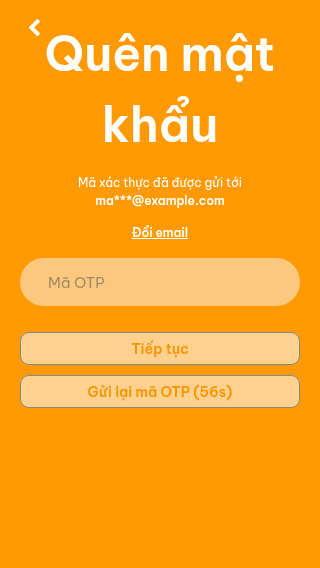
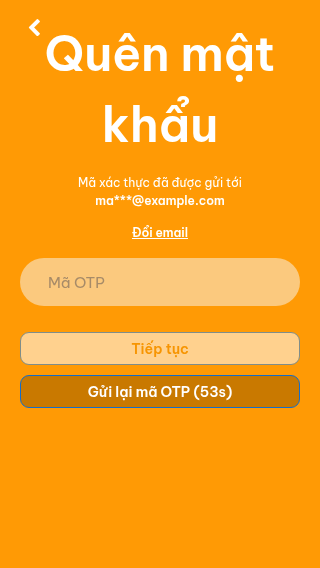
feat: brand SmartTro and correct recovery OTP resend button

Changed region(s): [[0.0625, 0.6585, 0.9375, 0.7183]]

diff --git a/src/screens/__tests__/ForgotPasswordScreen.test.tsx b/src/screens/__tests__/ForgotPasswordScreen.test.tsx
@@ -1,5 +1,5 @@
 import React from "react";
-import { BackHandler, Pressable, Text, TextInput } from "react-native";
+import { BackHandler, Pressable, StyleSheet, Text, TextInput } from "react-native";
 import TestRenderer, { act, type ReactTestInstance } from "react-test-renderer";
 
 import type { AuthGateway } from "../../auth/gateway";
@@ -39,6 +39,10 @@ function button(root: ReactTestInstance, label: string): ReactTestInstance {
   return root.findAllByType(Pressable).find((pressable) => textOf(pressable) === label) as ReactTestInstance;
 }
 
+function resendButton(root: ReactTestInstance): ReactTestInstance {
+  return root.findAllByType(Pressable).find((pressable) => textOf(pressable).startsWith("Gửi lại mã OTP")) as ReactTestInstance;
+}
+
 describe("ForgotPasswordScreen email change", () => {
   beforeEach(() => {
     jest.useFakeTimers();
@@ -60,6 +64,25 @@ describe("ForgotPasswordScreen email change", () => {
     expect(labels).toEqual(expect.arrayContaining(["Mã xác thực đã được gửi tới", "ma***@example.com", "Đổi email"]));
     expect(labels.indexOf("Mã xác thực đã được gửi tới")).toBeLessThan(labels.indexOf("Tiếp tục"));
     expect(labels.indexOf("Tiếp tục")).toBeLessThan(labels.findIndex((label) => typeof label === "string" && label.startsWith("Gửi lại mã OTP")));
+    act(() => renderer.unmount());
+  });
+
+  it("uses a readable inverse resend button in both cooldown and enabled states", () => {
+    let renderer!: TestRenderer.ReactTestRenderer;
+    act(() => {
+      renderer = TestRenderer.create(<ForgotPasswordScreen gateway={gateway()} initialStep="otp" onComplete={jest.fn()} onExit={jest.fn()} />);
+    });
+
+    const coolingDown = resendButton(renderer.root);
+    expect(coolingDown.props.disabled).toBe(true);
+    expect(StyleSheet.flatten(coolingDown.props.style)).toMatchObject({ backgroundColor: "#C97900", borderColor: "#126DCC", borderWidth: 1.5, borderRadius: 9, height: 33 });
+    expect(StyleSheet.flatten(coolingDown.findByType(Text).props.style)).toMatchObject({ color: "#FFFFFF", fontFamily: "BeVietnamPro_600SemiBold" });
+
+    act(() => { jest.advanceTimersByTime(60_000); });
+    const enabled = resendButton(renderer.root);
+    expect(enabled.props.disabled).toBe(false);
+    expect(StyleSheet.flatten(enabled.props.style)).toMatchObject({ backgroundColor: "#FF9A05", borderColor: "#1684F7", borderWidth: 1.5, borderRadius: 9, height: 33 });
+    expect(StyleSheet.flatten(enabled.findByType(Text).props.style)).toMatchObject({ color: "#FFFFFF", fontFamily: "BeVietnamPro_600SemiBold" });
     act(() => renderer.unmount());
   });
 

diff --git a/src/screens/ForgotPasswordScreen.tsx b/src/screens/ForgotPasswordScreen.tsx
@@ -188,6 +188,7 @@ export function ForgotPasswordScreen({ gateway, initialStep = "email", onExit, o
             disabled={submitting || resendSeconds > 0}
             label={resendSeconds ? `Gửi lại mã OTP (${resendSeconds}s)` : "Gửi lại mã OTP"}
             onPress={resend}
+            variant="inverse"
           />}
         </View>
       </ScrollView>
@@ -206,8 +207,9 @@ function SecretRecoveryInput({ editable, label, value, visible, onChangeText, on
   </View>;
 }
 
-function RecoveryAction({ label, onPress, disabled = false }: { label: string; onPress: () => void; disabled?: boolean }) {
-  return <Pressable accessibilityRole="button" disabled={disabled} onPress={onPress} style={[styles.action, disabled && styles.disabled]}><Text style={styles.actionText}>{label}</Text></Pressable>;
+function RecoveryAction({ label, onPress, disabled = false, variant = "default" }: { label: string; onPress: () => void; disabled?: boolean; variant?: "default" | "inverse" }) {
+  const inverse = variant === "inverse";
+  return <Pressable accessibilityRole="button" disabled={disabled} onPress={onPress} style={[styles.action, inverse && styles.inverseAction, disabled && (inverse ? styles.inverseDisabled : styles.disabled)]}><Text style={[styles.actionText, inverse && styles.inverseActionText]}>{label}</Text></Pressable>;
 }
 
 const styles = StyleSheet.create({
@@ -233,6 +235,9 @@ const styles = StyleSheet.create({
   action: { alignItems: "center", backgroundColor: "#FFFFFF", borderColor: "#1684F7", borderRadius: 9, borderWidth: 1.5, height: 33, justifyContent: "center", marginTop: 10 },
   actionText: { color: "#F09200", fontFamily: "BeVietnamPro_600SemiBold", fontSize: 14 },
   disabled: { opacity: 0.55 },
+  inverseAction: { backgroundColor: "#FF9A05" },
+  inverseActionText: { color: "#FFFFFF" },
+  inverseDisabled: { backgroundColor: "#C97900", borderColor: "#126DCC" },
   notice: { color: "#5B4126", fontFamily: "BeVietnamPro_400Regular", fontSize: 12, lineHeight: 18, marginBottom: 2, textAlign: "center" },
   error: { color: "#8B1C1C", fontFamily: "BeVietnamPro_400Regular", fontSize: 12, lineHeight: 18, marginBottom: 2, textAlign: "center" },
 });

diff --git a/evidence/uc03-change-email/README.md b/evidence/uc03-change-email/README.md
@@ -1,9 +1,9 @@
-# GLI-68 OTP change-email evidence
+# GLI-67 OTP visual correction evidence
 
 - Design source: Smart Platform Figma node `2005:3261` and the issue attachment captured at 375x812.
 - Review state: `EXPO_PUBLIC_UC03_REVIEW=true`, `EXPO_PUBLIC_AUTH_USE_MOCK=true`, URL query `?uc03=otp`.
 - Captures: `320x568`, `375x812`, `390x844`, and `430x932`.
-- The screenshots verify the destination copy, masked email, underlined `Đổi email` action, OTP input, and the required `Tiếp tục` then `Gửi lại mã OTP` order.
+- The screenshots verify the destination copy, masked email, underlined `Đổi email` action, OTP input, and the required `Tiếp tục` then `Gửi lại mã OTP` order. The resend control uses the approved inverse treatment: orange background, white semi-bold text, and the same blue 1.5px border, dimensions, radius, and alignment as `Tiếp tục`.
 
 The query parameter selects only the in-memory review step. It does not contain or persist an email, OTP, challenge ID, reset token, or password.
 
